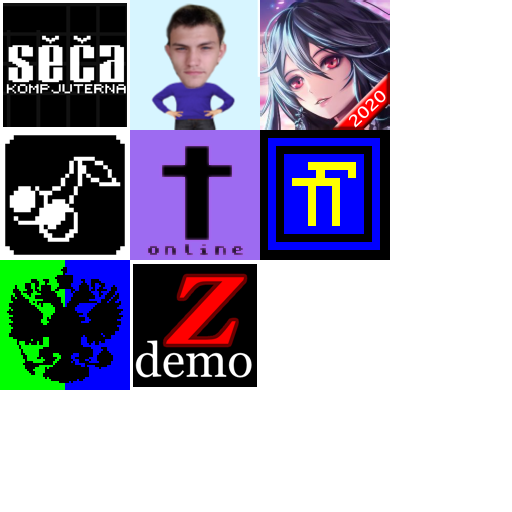
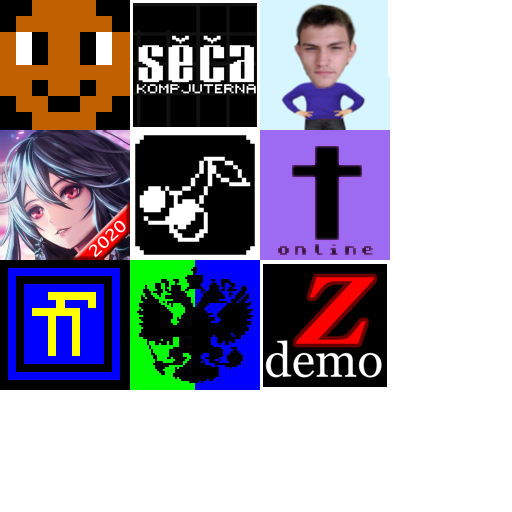
hr

diff --git a/zhukarcade/data.js b/zhukarcade/data.js
@@ -1,1 +1,1 @@
-{"project": [null,"Layout 1",[[0,true,false,false,false,false,false,false,false,false],[1,false,true,true,true,true,true,true,true,false],[2,true,false,false,false,false,false,false,false,false]],[["t0",1,false,[],1,0,null,[["Default",5,false,1,0,false,8729553413497399,[["images/black-sheet0.png",155,0,0,250,250,1,0.5,0.5,[],[],4]]]],[["Fade",3,7585447175772735]],false,false,7387607240222709,[],null],["t1",1,false,[5264834202259024],0,0,null,[["Default",5,false,1,0,false,7266523906679442,[["images/logo-sheet0.png",10182,0,0,693,76,1,0.5007215142250061,0.5,[],[],0]]]],[],false,false,3768893213110195,[],null],["t2",1,false,[7465671858647733],0,0,null,[["Default",0,false,1,0,false,9752546712139465,[["images/button-sheet0.png",100456,163,1,128,128,1,0.5,0.5,[],[],0],["images/button-sheet0.png",100456,293,1,128,128,1,0.5,0.5,[],[],0],["images/button-sheet0.png",100456,163,131,128,128,1,0.5,0.5,[],[],0],["images/button-sheet0.png",100456,293,131,128,128,1,0.5,0.5,[],[],0],["images/button-sheet0.png",100456,1,163,128,128,1,0.5,0.5,[],[],0],["images/button-sheet0.png",100456,131,261,128,128,1,0.5,0.5,[],[],0],["images/button-sheet0.png",100456,261,261,128,128,1,0.5,0.5,[],[],0],["images/button-sheet0.png",100456,1,293,128,128,1,0.5,0.5,[],[-0.3828119933605194,-0.3828119933605194,0,-0.5,0.3671879768371582,-0.3671869933605194,0.5,0,0.3671879768371582,0.3671879768371582,0,0.5,-0.3671869933605194,0.3671879768371582,-0.5,0],0],["images/button-sheet1.png",78293,1,1,128,128,1,0.5,0.5,[],[],0],["images/button-sheet1.png",78293,131,1,128,128,1,0.5,0.5,[],[],0],["images/button-sheet1.png",78293,261,1,128,128,1,0.5,0.5,[],[],0],["images/button-sheet1.png",78293,1,131,128,128,1,0.5,0.5,[],[-0.4296875,-0.4296875,0,-0.5,0.4296879768371582,-0.4296875,0.5,0,0.4296879768371582,0.4296879768371582,0,0.5,-0.4296875,0.4296879768371582,-0.5,0],0],["images/button-sheet1.png",78293,131,131,128,128,1,0.5,0.5,[],[-0.4296875,-0.4296875,0,-0.5,0.4296879768371582,-0.4296875,0.5,0,0.4296879768371582,0.4296879768371582,0,0.5,-0.4296875,0.4296879768371582,-0.5,0],0],["images/button-sheet1.png",78293,261,131,128,128,1,0.5,0.5,[],[-0.4296875,-0.4296875,0,-0.5,0.4296879768371582,-0.4296875,0.5,0,0.4296879768371582,0.4296879768371582,0,0.5,-0.4296875,0.4296879768371582,-0.5,0],0],["images/button-sheet1.png",78293,1,261,128,128,1,0.5,0.5,[],[-0.4296875,-0.4296875,0,-0.5,0.4296879768371582,-0.4296875,0.5,0,0.4296879768371582,0.4296879768371582,0,0.5,-0.4296875,0.4296879768371582,-0.5,0],0],["images/button-sheet1.png",78293,131,261,128,128,1,0.5,0.5,[],[-0.4296875,-0.4296875,0,-0.5,0.4296879768371582,-0.4296875,0.5,0,0.4296879768371582,0.4296879768371582,0,0.5,-0.4296875,0.4296879768371582,-0.5,0],0],["images/button-sheet0.png",100456,1,1,160,160,1,0.5,0.5,[],[-0.4296875,-0.2685546875,0,-0.3125,0.4296879768371582,-0.2685546875,0.5,0,0.4296879768371582,0.2685549855232239,0,0.3125,-0.4296875,0.2685549855232239,-0.5,0],0]]]],[],false,false,9980455744818507,[],null],["t3",2,false,[],0,0,null,null,[],false,false,3950556047889374,[],null,[1]],["t4",0,false,[],0,0,null,null,[],false,false,1058401059279333,[],null,[]],["t5",1,false,[],0,0,null,[["Default",5,false,1,0,false,129155538360011,[["images/sprite-sheet0.png",368710,0,0,512,384,1,0.5,0.5,[],[],1]]]],[],false,false,1081738395218617,[],null]],[],[["Layout 1",1024,1024,true,"Event sheet 1",1530669330642996,[["Layer 0",0,3330524870586053,true,[0,0,0],false,1,1,1,false,false,1,0,0,[[[512,96,0,693,76,0,0,1,0.5007215142250061,0.5,0,0,[]],1,1,[[0]],[],[0,"Default",0,1]],[[192,224,0,96,96,0,0,1,0.5,0.5,0,0,[]],2,2,[["https://ashesandburden.netlify.com"]],[],[0,"Default",0,1]],[[320,224,0,96,96,0,0,1,0.5,0.5,0,0,[]],2,3,[["https://sircowboy.netlify.com"]],[],[0,"Default",1,1]],[[448,224,0,96,96,0,0,1,0.5,0.5,0,0,[]],2,4,[["https://platformer1.netlify.com/"]],[],[0,"Default",2,1]],[[576,224,0,96,96,0,0,1,0.5,0.5,0,0,[]],2,5,[["https://virtulitee.netlify.com/"]],[],[0,"Default",3,1]],[[896,960,0,96,96,0,0,1,0.5,0.5,0,0,[]],2,6,[["https://zhukfighter.netlify.com"]],[],[1,"Default",4,1]],[[768,960,0,96,96,0,0,1,0.5,0.5,0,0,[]],2,7,[["https://trah.netlify.com/"]],[],[1,"Default",5,1]],[[704,224,0,96,96,0,0,1,0.5,0.5,0,0,[]],2,8,[["https://debils.netlify.com/"]],[],[0,"Default",6,1]],[[832,224,0,96,96,0,0,1,0.5,0.5,0,0,[]],2,9,[["https://ddnvd.ru/kalobok"]],[],[0,"Default",7,1]],[[192,352,0,96,96,0,0,1,0.5,0.5,0,0,[]],2,12,[["http://ddnvd.ru/secha/"]],[],[0,"Default",8,1]],[[256,960,0,96,96,0,0,1,0.5,0.5,0,0,[]],2,13,[["http://ddnvd.ru/sas/"]],[],[1,"Default",9,1]],[[512,864,0,384,288,0,0,1,0.5,0.5,0,0,[]],5,14,[],[],[1,"Default",0,1]],[[320,352,0,96,96,0,0,1,0.5,0.5,0,0,[]],2,15,[["http://ddnvd.ru/chinese/"]],[],[0,"Default",10,1]],[[448,352,0,96,96,0,0,1,0.5,0.5,0,0,[]],2,16,[["http://ddnvd.ru/rmg/"]],[],[0,"Default",11,1]],[[576,352,0,96,96,0,0,1,0.5,0.5,0,0,[]],2,17,[["http://ddnvd.ru/aabo/"]],[],[0,"Default",12,1]],[[704,352,0,96,96,0,0,1,0.5,0.5,0,0,[]],2,18,[["http://ddnvd.ru/shobaka/"]],[],[0,"Default",13,1]],[[832,352,0,96,96,0,0,1,0.5,0.5,0,0,[]],2,19,[["http://ddnvd.ru/rhn/"]],[],[0,"Default",14,1]],[[192,480,0,96,96,0,0,1,0.5,0.5,0,0,[]],2,20,[["http://ddnvd.ru/ashetzu/"]],[],[0,"Default",15,1]],[[320,480,0,96,96,0,0,1,0.5,0.5,0,0,[]],2,21,[["http://ddnvd.ru/wod/"]],[],[0,"Default",16,1]]],[]],["Layer 1",1,8749605358381316,true,[255,255,255],true,1,1,1,false,false,1,0,0,[[[515,515,0,1024,1024,0,0,1,0.5,0.5,0,0,[]],0,0,[],[[1,0,0,1,1]],[0,"Default",0,1]]],[]]],[],[]]],[["Event sheet 1",[[0,null,false,null,6743612669005715,[[3,4,null,1,false,false,false,1880414996016881,false,[[4,2]]],[2,5,null,0,false,false,false,412625155462232,false]],[[4,6,null,4786341105401476,false,[[1,[21,2,true,null,0]],[3,0]]]]],[0,null,false,null,2494595899420115,[[3,4,null,1,false,false,false,8036022015270609,false,[[4,1]]]],[[1,7,null,493753392889241,false,[[10,0],[7,[0,1]]]]]],[0,null,false,null,2414228189421093,[[1,8,null,0,false,false,false,4525638202724129,false,[[10,0],[8,0],[7,[0,13]]]]],[[1,7,null,152056757639573,false,[[10,0],[7,[0,1]]]],[5,9,null,4306711313903181,false,[[3,1]]],[2,9,null,526768774664709,false,[[3,1]]]]]]]],[],"media/",false,1024,1024,4,true,true,true,"1.1",true,false,2,0,22,false,true,1,true,"zhuk arcade",0,[]]}
+{"project": [null,"Layout 1",[[0,true,false,false,false,false,false,false,false,false],[1,true,false,false,false,false,false,false,false,false],[2,false,true,true,true,true,true,true,true,false]],[["t0",2,false,[],1,0,null,[["Default",5,false,1,0,false,8729553413497399,[["images/black-sheet0.png",155,0,0,250,250,1,0.5,0.5,[],[],4]]]],[["Fade",3,7585447175772735]],false,false,7387607240222709,[],null],["t1",2,false,[5264834202259024],0,0,null,[["Default",5,false,1,0,false,7266523906679442,[["images/logo-sheet0.png",10182,0,0,693,76,1,0.5007215142250061,0.5,[],[],0]]]],[],false,false,3768893213110195,[],null],["t2",2,false,[7465671858647733],0,0,null,[["Default",0,false,1,0,false,9752546712139465,[["images/button-sheet0.png",136269,325,1,128,128,1,0.5,0.5,[],[],0],["images/button-sheet0.png",136269,325,131,128,128,1,0.5,0.5,[],[],0],["images/button-sheet0.png",136269,1,163,128,128,1,0.5,0.5,[],[],0],["images/button-sheet0.png",136269,131,163,128,128,1,0.5,0.5,[],[],0],["images/button-sheet0.png",136269,261,261,128,128,1,0.5,0.5,[],[],0],["images/button-sheet0.png",136269,1,293,128,128,1,0.5,0.5,[],[],0],["images/button-sheet0.png",136269,131,293,128,128,1,0.5,0.5,[],[],0],["images/button-sheet1.png",79333,1,1,128,128,1,0.5,0.5,[],[-0.3828119933605194,-0.3828119933605194,0,-0.5,0.3671879768371582,-0.3671869933605194,0.5,0,0.3671879768371582,0.3671879768371582,0,0.5,-0.3671869933605194,0.3671879768371582,-0.5,0],0],["images/button-sheet1.png",79333,131,1,128,128,1,0.5,0.5,[],[],0],["images/button-sheet1.png",79333,261,1,128,128,1,0.5,0.5,[],[],0],["images/button-sheet1.png",79333,1,131,128,128,1,0.5,0.5,[],[],0],["images/button-sheet1.png",79333,131,131,128,128,1,0.5,0.5,[],[-0.4296875,-0.4296875,0,-0.5,0.4296879768371582,-0.4296875,0.5,0,0.4296879768371582,0.4296879768371582,0,0.5,-0.4296875,0.4296879768371582,-0.5,0],0],["images/button-sheet1.png",79333,261,131,128,128,1,0.5,0.5,[],[-0.4296875,-0.4296875,0,-0.5,0.4296879768371582,-0.4296875,0.5,0,0.4296879768371582,0.4296879768371582,0,0.5,-0.4296875,0.4296879768371582,-0.5,0],0],["images/button-sheet1.png",79333,1,261,128,128,1,0.5,0.5,[],[-0.4296875,-0.4296875,0,-0.5,0.4296879768371582,-0.4296875,0.5,0,0.4296879768371582,0.4296879768371582,0,0.5,-0.4296875,0.4296879768371582,-0.5,0],0],["images/button-sheet1.png",79333,131,261,128,128,1,0.5,0.5,[],[-0.4296875,-0.4296875,0,-0.5,0.4296879768371582,-0.4296875,0.5,0,0.4296879768371582,0.4296879768371582,0,0.5,-0.4296875,0.4296879768371582,-0.5,0],0],["images/button-sheet1.png",79333,261,261,128,128,1,0.5,0.5,[],[-0.4296875,-0.4296875,0,-0.5,0.4296879768371582,-0.4296875,0.5,0,0.4296879768371582,0.4296879768371582,0,0.5,-0.4296875,0.4296879768371582,-0.5,0],0],["images/button-sheet0.png",136269,1,1,160,160,1,0.5,0.5,[],[-0.4296875,-0.2685549855232239,0,-0.3125,0.4296879768371582,-0.2685549855232239,0.5,0,0.4296879768371582,0.2685549855232239,0,0.3125,-0.4296875,0.2685549855232239,-0.5,0],0],["images/button-sheet0.png",136269,163,1,160,160,1,0.5,0.5,[],[-0.234375,0.4087288975715637,0.5,0.2301587462425232,0.5,0.4087288975715637,0.5,0.5,0.5,0.5,0.5,0.5,-0.234375,0.5,-0.5,0.5],0],["images/button-sheet2.png",24749,0,0,128,128,1,0.5,0.5,[],[-0.234375,0.4087288975715637,0.5,0.2301587462425232,0.5,0.4087288975715637,0.5,0.5,0.5,0.5,0.5,0.5,-0.234375,0.5,-0.5,0.5],0]]]],[],false,false,9980455744818507,[],null],["t3",1,false,[],0,0,null,null,[],false,false,3950556047889374,[],null,[1]],["t4",0,false,[],0,0,null,null,[],false,false,1058401059279333,[],null,[]],["t5",2,false,[],0,0,null,[["Default",5,false,1,0,false,129155538360011,[["images/sprite-sheet0.png",368710,0,0,512,384,1,0.5,0.5,[],[],1]]]],[],false,false,1081738395218617,[],null]],[],[["Layout 1",1024,1024,true,"Event sheet 1",1530669330642996,[["Layer 0",0,3330524870586053,true,[0,0,0],false,1,1,1,false,false,1,0,0,[[[512,96,0,693,76,0,0,1,0.5007215142250061,0.5,0,0,[]],1,1,[[0]],[],[0,"Default",0,1]],[[192,224,0,96,96,0,0,1,0.5,0.5,0,0,[]],2,2,[["https://ashesandburden.netlify.com"]],[],[0,"Default",0,1]],[[448,224,0,96,96,0,0,1,0.5,0.5,0,0,[]],2,3,[["https://sircowboy.netlify.com"]],[],[0,"Default",1,1]],[[576,224,0,96,96,0,0,1,0.5,0.5,0,0,[]],2,4,[["https://platformer1.netlify.com/"]],[],[0,"Default",2,1]],[[576,352,0,96,96,0,0,1,0.5,0.5,0,0,[]],2,5,[["https://virtulitee.netlify.com/"]],[],[0,"Default",3,1]],[[896,960,0,96,96,0,0,1,0.5,0.5,0,0,[]],2,6,[["https://zhukfighter.netlify.com"]],[],[1,"Default",4,1]],[[768,960,0,96,96,0,0,1,0.5,0.5,0,0,[]],2,7,[["https://trah.netlify.com/"]],[],[1,"Default",5,1]],[[320,480,0,96,96,0,0,1,0.5,0.5,0,0,[]],2,8,[["https://debils.netlify.com/"]],[],[0,"Default",6,1]],[[704,224,0,96,96,0,0,1,0.5,0.5,0,0,[]],2,9,[["https://ddnvd.ru/kalobok"]],[],[0,"Default",7,1]],[[192,352,0,96,96,0,0,1,0.5,0.5,0,0,[]],2,12,[["http://ddnvd.ru/secha/"]],[],[0,"Default",8,1]],[[256,960,0,96,96,0,0,1,0.5,0.5,0,0,[]],2,13,[["http://ddnvd.ru/sas/"]],[],[1,"Default",9,1]],[[512,864,0,384,288,0,0,1,0.5,0.5,0,0,[]],5,14,[],[],[1,"Default",0,1]],[[320,352,0,96,96,0,0,1,0.5,0.5,0,0,[]],2,15,[["http://ddnvd.ru/chinese/"]],[],[0,"Default",10,1]],[[448,352,0,96,96,0,0,1,0.5,0.5,0,0,[]],2,16,[["http://ddnvd.ru/rmg/"]],[],[0,"Default",11,1]],[[320,224,0,96,96,0,0,1,0.5,0.5,0,0,[]],2,17,[["http://ddnvd.ru/aabo/"]],[],[0,"Default",12,1]],[[704,352,0,96,96,0,0,1,0.5,0.5,0,0,[]],2,18,[["http://ddnvd.ru/shobaka/"]],[],[0,"Default",13,1]],[[832,352,0,96,96,0,0,1,0.5,0.5,0,0,[]],2,19,[["http://ddnvd.ru/rhn/"]],[],[0,"Default",14,1]],[[448,480,0,96,96,0,0,1,0.5,0.5,0,0,[]],2,20,[["http://ddnvd.ru/ashetzu/"]],[],[0,"Default",15,1]],[[192,480,0,96,96,0,0,1,0.5,0.5,0,0,[]],2,21,[["http://ddnvd.ru/wod/"]],[],[0,"Default",16,1]],[[832,224,0,96,96,0,0,1,0.5,0.5,0,0,[]],2,22,[["http://ddnvd.ru/kb2/"]],[],[0,"Default",17,1]],[[576,480,0,96,96,0,0,1,0.5,0.5,0,0,[]],2,23,[["http://ddnvd.ru/antifreeze/"]],[],[0,"Default",18,1]]],[]],["Layer 1",1,8749605358381316,true,[255,255,255],true,1,1,1,false,false,1,0,0,[[[515,515,0,1024,1024,0,0,1,0.5,0.5,0,0,[]],0,0,[],[[1,0,0,1,1]],[0,"Default",0,1]]],[]]],[],[]]],[["Event sheet 1",[[0,null,false,null,6743612669005715,[[3,4,null,1,false,false,false,1880414996016881,false,[[4,2]]],[2,5,null,0,false,false,false,412625155462232,false]],[[4,6,null,4786341105401476,false,[[1,[21,2,true,null,0]],[3,0]]]]],[0,null,false,null,2494595899420115,[[3,4,null,1,false,false,false,8036022015270609,false,[[4,1]]]],[[1,7,null,493753392889241,false,[[10,0],[7,[0,1]]]]]],[0,null,false,null,2414228189421093,[[1,8,null,0,false,false,false,4525638202724129,false,[[10,0],[8,0],[7,[0,13]]]]],[[1,7,null,152056757639573,false,[[10,0],[7,[0,1]]]],[5,9,null,4306711313903181,false,[[3,1]]],[2,9,null,526768774664709,false,[[3,1]]]]]]]],[],"media/",false,1024,1024,4,true,true,true,"1.1",true,false,2,0,24,false,true,1,true,"zhuk arcade",0,[]]}

diff --git a/zhukarcade/offline.js b/zhukarcade/offline.js
@@ -1,5 +1,5 @@
 {
-	"version": 1584286695,
+	"version": 1588561876,
 	"fileList": [
 		"data.js",
 		"c2runtime.js",
@@ -8,6 +8,7 @@
 		"images/logo-sheet0.png",
 		"images/button-sheet0.png",
 		"images/button-sheet1.png",
+		"images/button-sheet2.png",
 		"images/sprite-sheet0.png",
 		"icon-16.png",
 		"icon-32.png",

diff --git a/zhukarcade/c2runtime.js b/zhukarcade/c2runtime.js
@@ -18488,8 +18488,8 @@ cr.behaviors.Fade = function(runtime)
 }());
 cr.getObjectRefTable = function () { return [
 	cr.plugins_.Browser,
-	cr.plugins_.Sprite,
 	cr.plugins_.Touch,
+	cr.plugins_.Sprite,
 	cr.behaviors.Fade,
 	cr.plugins_.Touch.prototype.cnds.OnTouchObject,
 	cr.plugins_.Sprite.prototype.cnds.IsVisible,
